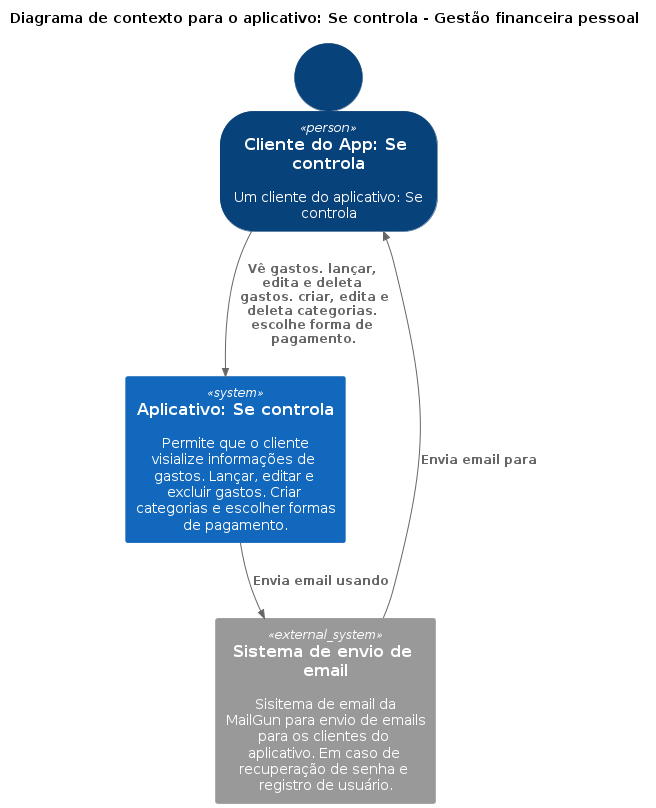
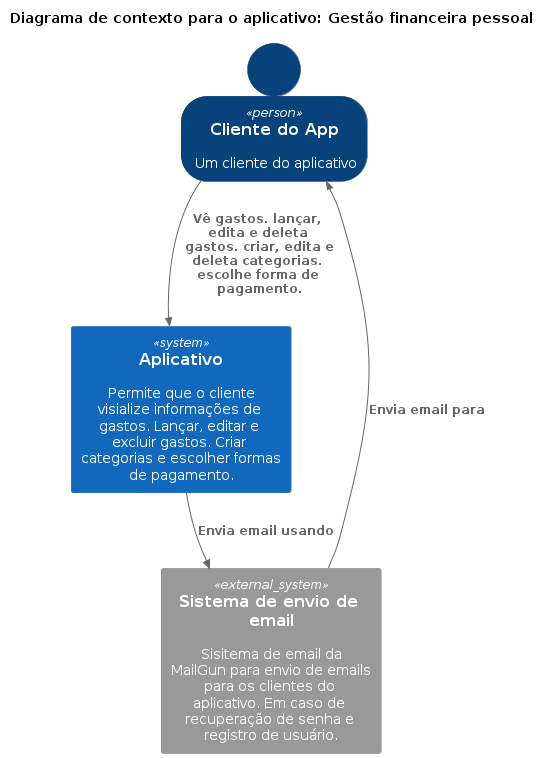
doc: improve documentation

Changed region(s): [[0.1236, 0.0607, 0.8655, 1.0], [0.0, 0.0, 0.9891, 0.0607]]

diff --git a/README.md b/README.md
@@ -1,5 +1,5 @@
 <div align="center">
-  <h1>Backend: Se controla - Aplicativo de gestão financeira</h1>
+  <h1>Backend: Software de gestão financeira</h1>
 </div>
 
 ----
